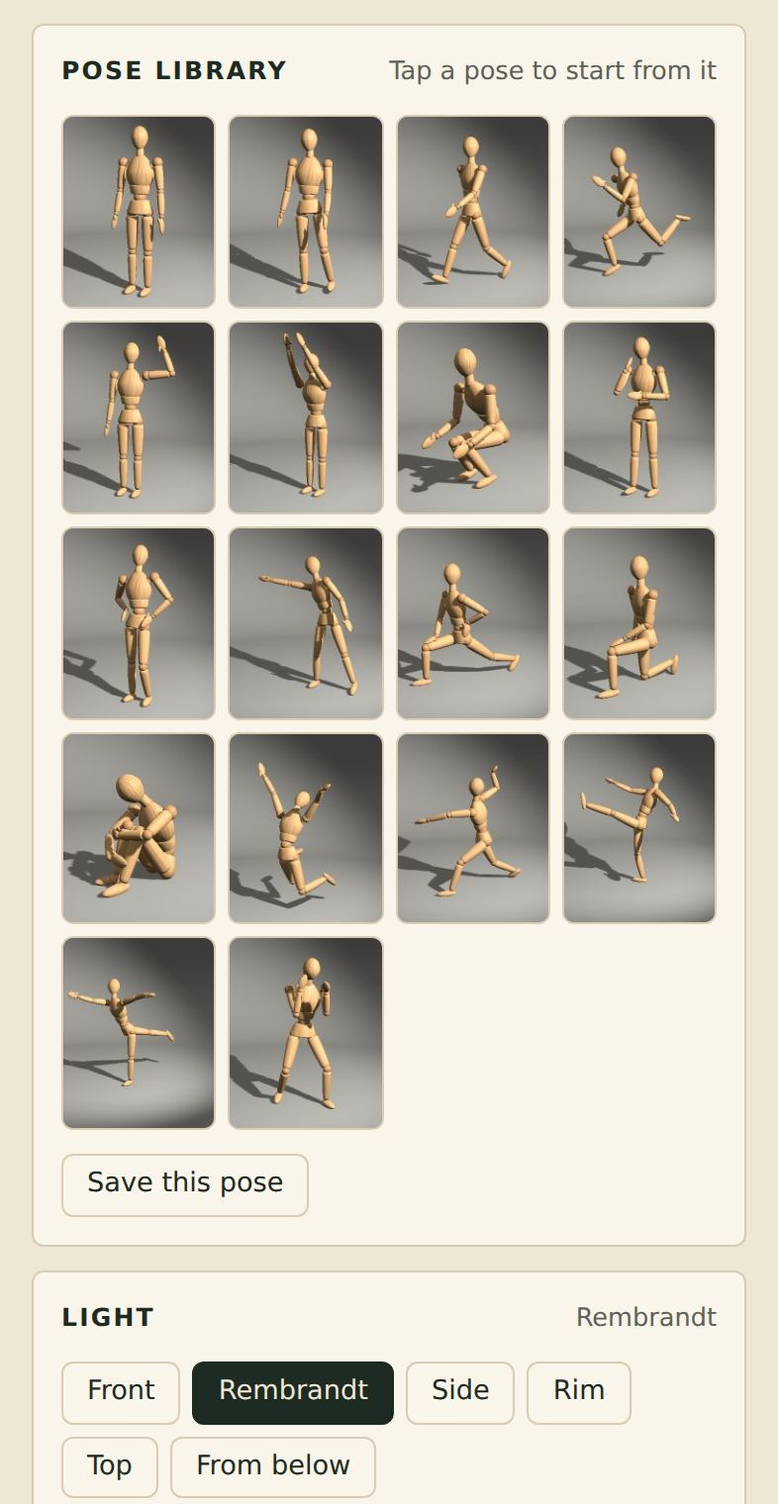
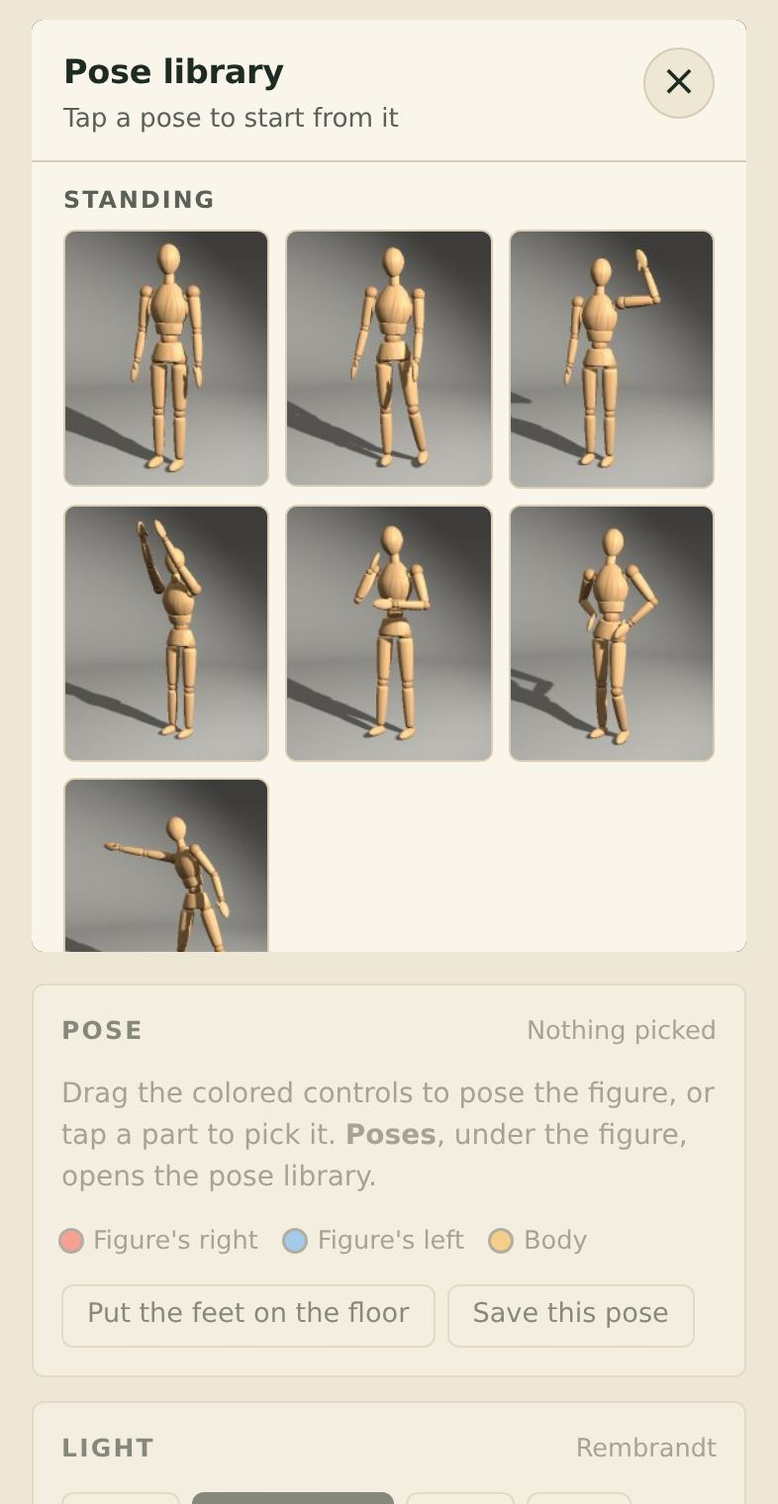
Pose and light: choose a pose to start; the library opens from Poses
The page opens on "Choose a pose to start" (with "Where you left off"
first when there is a pose from last time) and the rest waits until a
pose is picked; Start over goes back to it. The pose library is no longer
always on show: it is a sheet over the stage, opened from a Poses button
under the figure and closed by picking a pose, with the poses in groups
(standing, moving and sport, low to the floor, dance). Save this pose
moves to the Pose panel. The lamp ring keeps clear of the stage buttons.
The guide, its pictures and the README describe it.

Claude-Session: https://claude.ai/code/session_01XVREo3r8Hxw4H8arPAzQN1

diff --git a/pose.html b/pose.html
@@ -128,6 +128,22 @@ input[type="range"] { width: 100%; accent-color: var(--accent); margin: 0; }
 .pose-btn img:not([src]) { display: none; }
 .pose-name { position: absolute; inset: 0; display: grid; place-items: center; padding: 4px; text-align: center; font-size: 0.7rem; line-height: 1.2; color: #f5efe2; }
 .pose-btn.has-img .pose-name { display: none; }
+/* the pose library: a sheet over the stage, opened from the Poses button (and first thing, to choose where to start) */
+.stage .btn-primary { background: var(--accent); border-color: var(--accent); color: var(--accent-ink); font-weight: 600; }
+.stage-bar .btn svg { width: 16px; height: 16px; fill: none; stroke: currentColor; stroke-width: 2; stroke-linecap: round; }
+.sheet { position: absolute; inset: 0; z-index: 6; display: grid; grid-template-rows: auto minmax(0, 1fr); background: var(--surface); color: var(--ink); }
+.sheet-head { display: flex; align-items: flex-start; justify-content: space-between; gap: 12px; padding: 14px 16px 10px; border-bottom: 1px solid var(--line); }
+.sheet-title { display: grid; gap: 2px; min-width: 0; }
+.sheet-title h2 { font-size: 1.05rem; letter-spacing: -0.01em; text-transform: none; }
+.sheet-title .note { color: var(--muted); font-size: 0.82rem; }
+.sheet-x { flex: none; width: 36px; height: 36px; padding: 0; border-radius: 50%; border: 1px solid var(--line); background: var(--ground); color: var(--ink); font: 500 22px/1 var(--body); cursor: pointer; }
+.sheet.is-start .sheet-x { display: none; }
+.sheet-body { overflow: auto; overscroll-behavior: contain; padding: 12px 16px 18px; display: grid; gap: 18px; align-content: start; }
+.lib-groups { display: grid; gap: 18px; }
+.lib-group { display: grid; gap: 8px; }
+.lib-group h3 { margin: 0; display: flex; align-items: center; justify-content: space-between; gap: 8px; font: 700 0.74rem/1.2 var(--display); letter-spacing: 0.09em; text-transform: uppercase; color: var(--muted); }
+.sheet .library { grid-template-columns: repeat(auto-fill, minmax(96px, 1fr)); gap: 8px; }
+.tool.choosing .rail { opacity: 0.5; }
 .pose-x { position: absolute; top: 2px; right: 2px; width: 28px; height: 28px; padding: 0; border: 0; border-radius: 50%; background: rgba(20, 24, 20, 0.72); color: #f5efe2; font: 600 16px/28px var(--body); cursor: pointer; }
 .pose-x:hover { background: rgba(20, 24, 20, 0.9); }
 .lesson b { color: var(--ink); font-weight: 600; }
@@ -178,16 +194,28 @@ dialog p { margin: 8px 0 12px; color: var(--muted); }
       <div class="arrows" id="arrows"></div>
       <button type="button" class="lamp" id="lampHandle" aria-label="The lamp: drag it to move the light, or use the arrow keys"><svg viewBox="0 0 24 24" aria-hidden="true"><circle cx="12" cy="12" r="4.2"/><path d="M12 2.5v3M12 18.5v3M2.5 12h3M18.5 12h3M5.3 5.3l2.1 2.1M16.6 16.6l2.1 2.1M5.3 18.7l2.1-2.1M16.6 7.4l2.1-2.1"/></svg></button>
       <div class="stage-bar">
+        <button type="button" class="btn btn-primary" id="posesBtn" aria-haspopup="dialog" aria-controls="library" aria-expanded="false"><svg viewBox="0 0 24 24" aria-hidden="true"><circle cx="12" cy="4.5" r="2.2"/><path d="M12 7.5v6.5M12 14l-3.5 6M12 14l3.5 6M6 10.5l6-1.5 6 1.5"/></svg>Poses</button>
         <button type="button" class="btn" id="undo" disabled>Undo</button>
         <button type="button" class="btn" id="snap">Snapshot</button>
       </div>
+      <section class="sheet" id="library" role="dialog" aria-modal="true" aria-labelledby="libTitle" aria-describedby="libNote" hidden>
+        <div class="sheet-head">
+          <div class="sheet-title"><h2 id="libTitle">Pose library</h2><span class="note" id="libNote">Tap a pose to start from it</span></div>
+          <button type="button" class="sheet-x" id="libClose" aria-label="Close the pose library" title="Close">×</button>
+        </div>
+        <div class="sheet-body">
+          <div class="lib-group" id="continueWrap" hidden><h3>Where you left off</h3><div class="library" id="continue"></div></div>
+          <div class="lib-group" id="mineWrap" hidden><h3>Your poses <button type="button" class="btn btn-small" id="mineBack" hidden>Put back the pose you removed</button></h3><div class="library" id="mine"></div></div>
+          <div class="lib-groups" id="poses"></div>
+        </div>
+      </section>
       <div class="fail" id="fail" hidden><p><b>The 3D view could not start.</b><br>This browser has WebGL turned off, or the 3D library could not load. Try another browser, or check the connection and reload.</p></div>
     </div>
 
     <div class="rail">
       <section class="card" aria-labelledby="partTitle">
         <div class="card-head"><h2 id="partTitle">Pose</h2><span class="note" id="partName">Nothing picked</span></div>
-        <p class="empty" id="partEmpty">Drag the colored controls to pose the figure, or tap a part to pick it.</p>
+        <p class="empty" id="partEmpty">Drag the colored controls to pose the figure, or tap a part to pick it. <b>Poses</b>, under the figure, opens the pose library.</p>
         <p class="empty" id="partHow" hidden><span class="adv-only">Tap the yellow arrows to move it. Hold an arrow to keep it moving. You can also drag the part itself.</span><span class="simple-only">Drag it to move it. Advanced adds arrows that move it a little at a time.</span> Left and right are the figure's own.</p>
         <p class="empty" id="partDepth" hidden><b>◉</b> brings it toward you and <b>⊗</b> sends it away from you.</p>
         <div class="row" id="partButtons" hidden>
@@ -203,17 +231,10 @@ dialog p { margin: 8px 0 12px; color: var(--muted); }
             <label class="check" for="plantFeet"><input type="checkbox" id="plantFeet" checked> Keep the feet planted when the body moves</label>
           </div>
         </details>
-        <div class="row"><button type="button" class="btn" id="ground">Put the feet on the floor</button></div>
-      </section>
-
-      <section class="card" aria-labelledby="libTitle">
-        <div class="card-head"><h2 id="libTitle">Pose library</h2><span class="note" id="libNote">Tap a pose to start from it</span></div>
-        <div class="library" id="poses"></div>
-        <div class="field" id="mineWrap" hidden>
-          <span class="field-head">Your poses <button type="button" class="btn btn-small" id="mineBack" hidden>Put back the pose you removed</button></span>
-          <div class="library" id="mine"></div>
+        <div class="row">
+          <button type="button" class="btn" id="ground">Put the feet on the floor</button>
+          <button type="button" class="btn" id="savePose">Save this pose</button>
         </div>
-        <div class="row"><button type="button" class="btn" id="savePose">Save this pose</button></div>
       </section>
 
       <section class="card" aria-labelledby="lightTitle">
@@ -321,6 +342,7 @@ dialog p { margin: 8px 0 12px; color: var(--muted); }
   // Simple or Advanced (see "Simple and Advanced" near the end), and in Simple the arm, leg or body
   // last touched, whose elbow or knee diamond or chest ring shows
   let simple = true, active = null;
+  let sheetStart = false;     // the pose library is open as the start screen (see "Pose library")
   const groupOf = (n) => (n === 'root' || n === 'waist' || n === 'neck' ? 'body' : (/^(shoulder|elbow|wrist)/.test(n) ? 'arm' : 'leg') + n.slice(-1));
   const srgb = (hex) => new T.Color(hex).convertSRGBToLinear();
 
@@ -695,22 +717,22 @@ dialog p { margin: 8px 0 12px; color: var(--muted); }
   const POSES = [
     { id: 'stand', name: 'Stand', p: { shoulderR: { z: -7 }, shoulderL: { z: 7 }, elbowR: { x: -10 }, elbowL: { x: -10 } }, thumbView: { az: 25, el: 8 } },
     { id: 'relaxed', name: 'Weight on one leg', p: { root: { z: 5, y: 8 }, waist: { z: -7, y: -4 }, neck: { z: 5, y: -10 }, hipR: { x: -2, z: -2 }, hipL: { x: -10, z: 6 }, kneeL: { x: 22 }, ankleL: { x: -6 }, shoulderR: { z: -9 }, shoulderL: { z: 5, x: -6 }, elbowR: { x: -12 }, elbowL: { x: -25 } }, thumbView: { az: 20, el: 8 } },
-    { id: 'walk', name: 'Walk', p: { waist: { y: 7 }, hipR: { x: -26 }, kneeR: { x: 8 }, ankleR: { x: -8 }, hipL: { x: 20 }, kneeL: { x: 30 }, ankleL: { x: 14 }, shoulderR: { x: 22, z: -6 }, elbowR: { x: -14 }, shoulderL: { x: -28, z: 6 }, elbowL: { x: -32 } }, thumbView: { az: 60, el: 8 } },
-    { id: 'run', name: 'Run', p: { root: { x: 12 }, waist: { x: 10, y: 10 }, neck: { x: -12 }, hipR: { x: -70 }, kneeR: { x: 75 }, ankleR: { x: 10 }, hipL: { x: 30 }, kneeL: { x: 95 }, ankleL: { x: 30 }, shoulderR: { x: 45, z: -10 }, elbowR: { x: -95 }, shoulderL: { x: -55, z: 10 }, elbowL: { x: -95 } }, thumbView: { az: 65, el: 8 } },
+    { id: 'walk', group: 'moving', name: 'Walk', p: { waist: { y: 7 }, hipR: { x: -26 }, kneeR: { x: 8 }, ankleR: { x: -8 }, hipL: { x: 20 }, kneeL: { x: 30 }, ankleL: { x: 14 }, shoulderR: { x: 22, z: -6 }, elbowR: { x: -14 }, shoulderL: { x: -28, z: 6 }, elbowL: { x: -32 } }, thumbView: { az: 60, el: 8 } },
+    { id: 'run', group: 'moving', name: 'Run', p: { root: { x: 12 }, waist: { x: 10, y: 10 }, neck: { x: -12 }, hipR: { x: -70 }, kneeR: { x: 75 }, ankleR: { x: 10 }, hipL: { x: 30 }, kneeL: { x: 95 }, ankleL: { x: 30 }, shoulderR: { x: 45, z: -10 }, elbowR: { x: -95 }, shoulderL: { x: -55, z: 10 }, elbowL: { x: -95 } }, thumbView: { az: 65, el: 8 } },
     { id: 'wave', name: 'Wave', p: { neck: { y: 10, z: -5 }, shoulderL: { z: 95, y: 90 }, elbowL: { x: -105 }, wristL: { z: -10 }, shoulderR: { z: -7 }, elbowR: { x: -10 } }, thumbView: { az: 20, el: 8 } },
     { id: 'reach', name: 'Reach', p: { waist: { x: 12 }, neck: { x: -10 }, shoulderR: { x: -150, z: -10 }, shoulderL: { x: -150, z: 10 }, elbowR: { x: -8 }, elbowL: { x: -8 } }, thumbView: { az: 35, el: 8 } },
-    { id: 'crouch', name: 'Crouch', p: { height: -0.38, root: { x: 18 }, waist: { x: 20 }, neck: { x: -25 }, hipR: { x: -105, z: -8 }, kneeR: { x: 125 }, ankleR: { x: -25 }, hipL: { x: -105, z: 8 }, kneeL: { x: 125 }, ankleL: { x: -25 }, shoulderR: { x: -40, z: -10 }, elbowR: { x: -60 }, shoulderL: { x: -40, z: 10 }, elbowL: { x: -60 } }, thumbView: { az: 50, el: 8 } },
+    { id: 'crouch', group: 'low', name: 'Crouch', p: { height: -0.38, root: { x: 18 }, waist: { x: 20 }, neck: { x: -25 }, hipR: { x: -105, z: -8 }, kneeR: { x: 125 }, ankleR: { x: -25 }, hipL: { x: -105, z: 8 }, kneeL: { x: 125 }, ankleL: { x: -25 }, shoulderR: { x: -40, z: -10 }, elbowR: { x: -60 }, shoulderL: { x: -40, z: 10 }, elbowL: { x: -60 } }, thumbView: { az: 50, el: 8 } },
     { id: 'think', name: 'Think', p: { neck: { x: 12, y: -15 }, shoulderR: { x: -35, z: -14, y: 20 }, elbowR: { x: -145 }, wristR: { x: -20 }, shoulderL: { x: -10, z: 22, y: -40 }, elbowL: { x: -100 }, hipL: { z: 4 }, hipR: { x: -6 } }, thumbView: { az: 30, el: 8 } },
     { id: 'hips', name: 'Hands on hips', p: { root: { y: -8, z: -7 }, waist: { x: -6, y: 5, z: 13 }, neck: { x: -8, y: 14, z: -6 }, shoulderR: { x: 29, y: 66, z: -39 }, elbowR: { x: -105 }, wristR: { x: 23, y: 3, z: -37 }, hipR: { z: 9 }, shoulderL: { x: 14, y: -71, z: 31 }, elbowL: { x: -82 }, wristL: { x: 2, y: 28, z: 23 }, hipL: { x: -15, y: 12, z: 15 }, kneeL: { x: 33 }, ankleL: { x: -10, z: -4 } }, thumbView: { az: 25, el: 10 } },
     { id: 'point', name: 'Point', p: { root: { y: -10, z: 5 }, waist: { x: 4, y: -25, z: 14 }, neck: { x: -6, y: -35 }, shoulderR: { x: -43, y: -90, z: -131 }, hipR: { x: -8, z: -11 }, kneeR: { x: 16 }, ankleR: { x: -4 }, shoulderL: { x: 10, z: 20 }, elbowL: { x: -25 }, hipL: { x: 4, z: 14 }, ankleL: { x: 26, z: 6 } }, thumbView: { az: 25, el: 10 } },
-    { id: 'lunge', name: 'Lunge', p: { root: { x: 14 }, waist: { x: -4, y: -6, z: 2 }, neck: { x: -12, y: 6 }, shoulderR: { x: -26, y: 67, z: -6 }, elbowR: { x: -46 }, wristR: { x: 8, y: 46, z: -43 }, hipR: { x: -95, y: 18, z: 15 }, kneeR: { x: 82 }, ankleR: { x: -1, y: -7, z: 4 }, shoulderL: { x: 37, y: -70, z: 38 }, elbowL: { x: -112 }, wristL: { x: 36, y: 29, z: 33 }, hipL: { x: 40, z: 3 }, kneeL: { x: 22 }, ankleL: { x: -21, y: -3, z: -2 } }, thumbView: { az: 55, el: 12 } },
-    { id: 'kneel', name: 'Kneel', p: { root: { y: -25 }, waist: { x: 10, y: 6, z: -2 }, neck: { x: -8, y: 6, z: 3 }, shoulderR: { x: 10, y: 10, z: -12 }, elbowR: { x: -22 }, hipR: { x: 4, z: -3 }, kneeR: { x: 105 }, ankleR: { x: -28 }, shoulderL: { x: -21, y: -37, z: -2 }, elbowL: { x: -47 }, wristL: { x: -6, y: -72, z: 26 }, hipL: { x: -84, z: 5 }, kneeL: { x: 84 }, ankleL: { y: 6, z: -5 } }, thumbView: { az: 40, el: 12 } },
-    { id: 'sit', name: 'Sit', p: { root: { x: -27 }, waist: { x: 52, y: 5, z: 3 }, neck: { x: 20, y: -10, z: 9 }, shoulderR: { x: -71, y: 55, z: -33 }, elbowR: { x: -56 }, wristR: { x: -40, y: -40, z: 20 }, hipR: { x: -119, y: -3, z: -2 }, kneeR: { x: 130 }, ankleR: { x: 16, y: -8 }, shoulderL: { x: -81, y: 5, z: 94 }, elbowL: { x: -86 }, wristL: { x: -35, y: 60, z: -15 }, hipL: { x: -116, y: -4, z: -1 }, kneeL: { x: 119 }, ankleL: { x: 26, y: 6, z: -1 } }, thumbView: { az: 55, el: 12 } },
-    { id: 'jump', name: 'Jump', p: { root: { x: 8, z: 3 }, waist: { x: -28, y: 5, z: -4 }, neck: { x: -28, y: 10, z: -5 }, shoulderR: { x: -12, y: 30, z: -150 }, elbowR: { x: -12 }, wristR: { z: -20 }, hipR: { x: 22, y: 20, z: -8 }, kneeR: { x: 115 }, ankleR: { x: 38 }, shoulderL: { x: -28, y: -30, z: 136 }, elbowL: { x: -24 }, wristL: { z: -20 }, hipL: { y: -15, z: 7 }, kneeL: { x: 95 }, ankleL: { x: 30 } }, lift: 0.25, thumbView: { az: 40, el: 8 } },
-    { id: 'throw', name: 'Throw', p: { root: { x: 10, y: -31, z: 6 }, waist: { x: 5, y: -40, z: -14 }, neck: { x: -14, y: 40, z: 8 }, shoulderR: { x: 32, y: -90, z: -97 }, elbowR: { x: -95 }, wristR: { z: -45 }, hipR: { x: 19, y: -8, z: -12 }, kneeR: { x: 35 }, ankleR: { x: -13, y: -24, z: 6 }, shoulderL: { x: -52, y: -25, z: 112 }, elbowL: { x: -28 }, hipL: { x: -68, y: 14, z: 11 }, kneeL: { x: 37 }, ankleL: { x: 20, y: -12, z: 2 } }, thumbView: { az: 40, el: 10 } },
-    { id: 'kick', name: 'Kick', p: { root: { x: -15, y: -47, z: -11 }, waist: { x: -8, y: 10, z: 5 }, neck: { x: 18, y: -8 }, shoulderR: { x: -50, z: -65 }, elbowR: { x: -35 }, hipR: { x: 15, y: -1 }, kneeR: { x: 16 }, ankleR: { x: -13, y: -22, z: -3 }, shoulderL: { x: 35, z: 65 }, elbowL: { x: -30 }, hipL: { x: -98, z: 4 }, kneeL: { x: 8 }, ankleL: { x: 25 } }, thumbView: { az: 40, el: 10 } },
-    { id: 'dance', name: 'Dance', p: { root: { x: 37, y: -25, z: 16 }, waist: { x: -18, y: 10 }, neck: { x: -28, y: -10 }, shoulderR: { x: -120, z: -3 }, elbowR: { x: -8 }, wristR: { z: -10 }, hipR: { x: 40, y: 15 }, ankleR: { x: 45 }, shoulderL: { x: 12, z: 100 }, elbowL: { x: -15 }, wristL: { z: -12 }, hipL: { x: -40, y: 20, z: -5 } }, thumbView: { az: 40, el: 10 } },
-    { id: 'box', name: 'Box', p: { root: { x: 2, y: 40, z: -8 }, waist: { x: 8, y: 8 }, neck: { x: 12, y: 22 }, shoulderR: { x: -45, y: 34, z: 14 }, elbowR: { x: -141 }, wristR: { x: 15, y: -75 }, hipR: { x: -24, y: -5, z: -11 }, kneeR: { x: 49 }, ankleR: { x: -13, y: -5 }, shoulderL: { x: -57, y: -23, z: -11 }, elbowL: { x: -105 }, wristL: { x: 20, y: -75 }, hipL: { x: -30, y: 45, z: 31 }, kneeL: { x: 39 }, ankleL: { x: -5, y: -15, z: -4 } }, thumbView: { az: 35, el: 10 } },
+    { id: 'lunge', group: 'moving', name: 'Lunge', p: { root: { x: 14 }, waist: { x: -4, y: -6, z: 2 }, neck: { x: -12, y: 6 }, shoulderR: { x: -26, y: 67, z: -6 }, elbowR: { x: -46 }, wristR: { x: 8, y: 46, z: -43 }, hipR: { x: -95, y: 18, z: 15 }, kneeR: { x: 82 }, ankleR: { x: -1, y: -7, z: 4 }, shoulderL: { x: 37, y: -70, z: 38 }, elbowL: { x: -112 }, wristL: { x: 36, y: 29, z: 33 }, hipL: { x: 40, z: 3 }, kneeL: { x: 22 }, ankleL: { x: -21, y: -3, z: -2 } }, thumbView: { az: 55, el: 12 } },
+    { id: 'kneel', group: 'low', name: 'Kneel', p: { root: { y: -25 }, waist: { x: 10, y: 6, z: -2 }, neck: { x: -8, y: 6, z: 3 }, shoulderR: { x: 10, y: 10, z: -12 }, elbowR: { x: -22 }, hipR: { x: 4, z: -3 }, kneeR: { x: 105 }, ankleR: { x: -28 }, shoulderL: { x: -21, y: -37, z: -2 }, elbowL: { x: -47 }, wristL: { x: -6, y: -72, z: 26 }, hipL: { x: -84, z: 5 }, kneeL: { x: 84 }, ankleL: { y: 6, z: -5 } }, thumbView: { az: 40, el: 12 } },
+    { id: 'sit', group: 'low', name: 'Sit', p: { root: { x: -27 }, waist: { x: 52, y: 5, z: 3 }, neck: { x: 20, y: -10, z: 9 }, shoulderR: { x: -71, y: 55, z: -33 }, elbowR: { x: -56 }, wristR: { x: -40, y: -40, z: 20 }, hipR: { x: -119, y: -3, z: -2 }, kneeR: { x: 130 }, ankleR: { x: 16, y: -8 }, shoulderL: { x: -81, y: 5, z: 94 }, elbowL: { x: -86 }, wristL: { x: -35, y: 60, z: -15 }, hipL: { x: -116, y: -4, z: -1 }, kneeL: { x: 119 }, ankleL: { x: 26, y: 6, z: -1 } }, thumbView: { az: 55, el: 12 } },
+    { id: 'jump', group: 'moving', name: 'Jump', p: { root: { x: 8, z: 3 }, waist: { x: -28, y: 5, z: -4 }, neck: { x: -28, y: 10, z: -5 }, shoulderR: { x: -12, y: 30, z: -150 }, elbowR: { x: -12 }, wristR: { z: -20 }, hipR: { x: 22, y: 20, z: -8 }, kneeR: { x: 115 }, ankleR: { x: 38 }, shoulderL: { x: -28, y: -30, z: 136 }, elbowL: { x: -24 }, wristL: { z: -20 }, hipL: { y: -15, z: 7 }, kneeL: { x: 95 }, ankleL: { x: 30 } }, lift: 0.25, thumbView: { az: 40, el: 8 } },
+    { id: 'throw', group: 'moving', name: 'Throw', p: { root: { x: 10, y: -31, z: 6 }, waist: { x: 5, y: -40, z: -14 }, neck: { x: -14, y: 40, z: 8 }, shoulderR: { x: 32, y: -90, z: -97 }, elbowR: { x: -95 }, wristR: { z: -45 }, hipR: { x: 19, y: -8, z: -12 }, kneeR: { x: 35 }, ankleR: { x: -13, y: -24, z: 6 }, shoulderL: { x: -52, y: -25, z: 112 }, elbowL: { x: -28 }, hipL: { x: -68, y: 14, z: 11 }, kneeL: { x: 37 }, ankleL: { x: 20, y: -12, z: 2 } }, thumbView: { az: 40, el: 10 } },
+    { id: 'kick', group: 'moving', name: 'Kick', p: { root: { x: -15, y: -47, z: -11 }, waist: { x: -8, y: 10, z: 5 }, neck: { x: 18, y: -8 }, shoulderR: { x: -50, z: -65 }, elbowR: { x: -35 }, hipR: { x: 15, y: -1 }, kneeR: { x: 16 }, ankleR: { x: -13, y: -22, z: -3 }, shoulderL: { x: 35, z: 65 }, elbowL: { x: -30 }, hipL: { x: -98, z: 4 }, kneeL: { x: 8 }, ankleL: { x: 25 } }, thumbView: { az: 40, el: 10 } },
+    { id: 'dance', group: 'dance', name: 'Arabesque', p: { root: { x: 37, y: -25, z: 16 }, waist: { x: -18, y: 10 }, neck: { x: -28, y: -10 }, shoulderR: { x: -120, z: -3 }, elbowR: { x: -8 }, wristR: { z: -10 }, hipR: { x: 40, y: 15 }, ankleR: { x: 45 }, shoulderL: { x: 12, z: 100 }, elbowL: { x: -15 }, wristL: { z: -12 }, hipL: { x: -40, y: 20, z: -5 } }, thumbView: { az: 40, el: 10 } },
+    { id: 'box', group: 'moving', name: 'Box', p: { root: { x: 2, y: 40, z: -8 }, waist: { x: 8, y: 8 }, neck: { x: 12, y: 22 }, shoulderR: { x: -45, y: 34, z: 14 }, elbowR: { x: -141 }, wristR: { x: 15, y: -75 }, hipR: { x: -24, y: -5, z: -11 }, kneeR: { x: 49 }, ankleR: { x: -13, y: -5 }, shoulderL: { x: -57, y: -23, z: -11 }, elbowL: { x: -105 }, wristL: { x: 20, y: -75 }, hipL: { x: -30, y: 45, z: 31 }, kneeL: { x: 39 }, ankleL: { x: -5, y: -15, z: -4 } }, thumbView: { az: 35, el: 10 } },
   ];
 
   // ---- The rig: arms and legs that follow their hand or foot (inverse kinematics) -------------------
@@ -1402,8 +1424,8 @@ dialog p { margin: 8px 0 12px; color: var(--muted); }
   // pictures are drawn one at a time after the page is up, so it opens quickly
   const thumbQueue = [];
   let thumbBusy = false;
-  function thumbLater(entry, btn) {
-    thumbQueue.push([entry, btn]);
+  function thumbLater(entry, btn, first) {
+    if (first) thumbQueue.unshift([entry, btn]); else thumbQueue.push([entry, btn]);
     if (thumbBusy) return;
     thumbBusy = true;
     const next = () => {
@@ -1417,7 +1439,7 @@ dialog p { margin: 8px 0 12px; color: var(--muted); }
     };
     setTimeout(next, 60);
   }
-  function poseButton(name, entry, onPick) {
+  function poseButton(name, entry, onPick, first) {
     const item = document.createElement('div');
     item.className = 'pose-item';
     const b = document.createElement('button');
@@ -1433,7 +1455,7 @@ dialog p { margin: 8px 0 12px; color: var(--muted); }
     b.addEventListener('click', onPick);
     item.appendChild(b);
     if (entry.id && thumbs.has(entry.id)) { img.src = thumbs.get(entry.id); b.classList.add('has-img'); }
-    else thumbLater(entry, b);
+    else thumbLater(entry, b, first);
     return item;
   }
   const thumbs = new Map();                  // pictures already drawn, by pose id
@@ -1446,18 +1468,33 @@ dialog p { margin: 8px 0 12px; color: var(--muted); }
   function markLibrary() {
     const on = chosen && chosen.pose === JSON.stringify(pose) ? chosen.id : null;
     document.querySelectorAll('#poses .pose-btn, #mine .pose-btn').forEach((b) => b.setAttribute('aria-pressed', String(b.dataset.id === on)));
-    $('libNote').textContent = on ? chosen.name : 'Tap a pose to start from it';
+    if (!sheetStart) $('libNote').textContent = on ? `On the figure now: ${chosen.name}` : 'Tap a pose to start from it';
   }
-  POSES.forEach((ps) => {
-    const item = poseButton(ps.name, ps, () => {
-      setPose(ps.p);
-      ground();
-      if (ps.lift) { pose.height = clamp(pose.height + ps.lift, LOW, HIGH); applyPose(); }
-      choose(ps.id, ps.name);
-      remember();
+  // the library in groups, so 30 pictures are easy to look through
+  const GROUPS = [['standing', 'Standing'], ['moving', 'Moving and sport'], ['low', 'Low to the floor'], ['dance', 'Dance']];
+  GROUPS.forEach(([g, title]) => {
+    const list = POSES.filter((ps) => (ps.group || 'standing') === g);
+    if (!list.length) return;
+    const sec = document.createElement('div');
+    sec.className = 'lib-group';
+    const h = document.createElement('h3');
+    h.textContent = title;
+    const grid = document.createElement('div');
+    grid.className = 'library';
+    list.forEach((ps) => {
+      const item = poseButton(ps.name, ps, () => {
+        setPose(ps.p);
+        ground();
+        if (ps.lift) { pose.height = clamp(pose.height + ps.lift, LOW, HIGH); applyPose(); }
+        choose(ps.id, ps.name);
+        remember();
+        closeLibrary();
+      });
+      item.firstChild.dataset.id = ps.id;
+      grid.appendChild(item);
     });
-    item.firstChild.dataset.id = ps.id;
-    $('poses').appendChild(item);
+    sec.append(h, grid);
+    $('poses').appendChild(sec);
   });
 
   // your own poses, kept in this browser
@@ -1476,7 +1513,7 @@ dialog p { margin: 8px 0 12px; color: var(--muted); }
     mine.forEach((m, i) => {
       const name = `Your pose ${i + 1}`;
       const view = m.view && typeof m.view === 'object' ? { az: num(m.view.az, 30), el: clamp(num(m.view.el, 8), -8, 80) } : { az: 30, el: 8 };
-      const item = poseButton(name, { id: m.id, p: m.p, ground: false, thumbView: view }, () => { setPose(m.p); choose(m.id, name); remember(); });
+      const item = poseButton(name, { id: m.id, p: m.p, ground: false, thumbView: view }, () => { setPose(m.p); choose(m.id, name); remember(); closeLibrary(); });
       item.firstChild.dataset.id = m.id;
       const x = document.createElement('button');
       x.type = 'button'; x.className = 'pose-x'; x.textContent = '×';
@@ -1507,7 +1544,11 @@ dialog p { margin: 8px 0 12px; color: var(--muted); }
     markLibrary();
     $('savePose').focus();
   });
+  let savedSay = 0;
   $('savePose').addEventListener('click', () => {
+    clearTimeout(savedSay);
+    $('savePose').textContent = 'Saved in the pose library';
+    savedSay = setTimeout(() => { $('savePose').textContent = 'Save this pose'; }, 2200);
     removed = null;
     const id = 'mine-' + Date.now().toString(36);
     mine.push({ id, p: copyPose(pose), view: { az: Math.round(view.az), el: Math.round(view.el) } });
@@ -1517,6 +1558,53 @@ dialog p { margin: 8px 0 12px; color: var(--muted); }
     choose(id, `Your pose ${mine.length}`);
   });
   showMine();
+
+  // The sheet over the stage. It opens from the Poses button, and first thing when the page opens (and
+  // after Start over) to choose a pose to start from: then it has no close button and the rest of the
+  // page waits until a pose is picked. Picking a pose closes it.
+  const sheet = $('library');
+  const behindSheet = () => [canvas, $('hint'), $('picked'), rigSvg, $('arrows'), handle, document.querySelector('.stage-bar'), document.querySelector('.rail')];
+  function openLibrary(start) {
+    sheetStart = !!start;
+    sheet.classList.toggle('is-start', sheetStart);
+    $('libTitle').textContent = sheetStart ? 'Choose a pose to start' : 'Pose library';
+    if (sheetStart) $('libNote').textContent = 'Pick a pose to begin. The Poses button under the figure brings this back any time.';
+    else $('continueWrap').hidden = true;
+    sheet.hidden = false;
+    $('posesBtn').setAttribute('aria-expanded', 'true');
+    document.querySelector('.tool').classList.add('choosing');
+    behindSheet().forEach((el) => el && el.setAttribute('inert', ''));
+    markLibrary();
+    // it opens at the top, or at the group of the pose on the figure now
+    const body = sheet.querySelector('.sheet-body'), now = sheet.querySelector('.pose-btn[aria-pressed="true"]');
+    body.scrollTop = now && !sheetStart ? Math.max(0, now.closest('.lib-group').offsetTop - body.offsetTop - 8) : 0;
+    const on = sheet.querySelector('#continue .pose-btn') || now || sheet.querySelector('#poses .pose-btn');
+    if (on) on.focus({ preventScroll: true });
+  }
+  function closeLibrary() {
+    if (sheet.hidden) return;
+    const wasStart = sheetStart;
+    sheetStart = false;
+    sheet.hidden = true;
+    $('continueWrap').hidden = true;
+    $('posesBtn').setAttribute('aria-expanded', 'false');
+    document.querySelector('.tool').classList.remove('choosing');
+    behindSheet().forEach((el) => el && el.removeAttribute('inert'));
+    $('hint').hidden = !wasStart;              // the tips show once a first pose is chosen
+    markLibrary();
+    $('posesBtn').focus({ preventScroll: true });
+    requestRender();
+  }
+  $('posesBtn').addEventListener('click', () => openLibrary(false));
+  $('libClose').addEventListener('click', closeLibrary);
+  sheet.addEventListener('keydown', (e) => { if (e.key === 'Escape' && !sheetStart) { e.preventDefault(); closeLibrary(); } });
+  // the pose from last time, as the first choice on the start screen
+  function offerContinue() {
+    $('continue').textContent = '';
+    const item = poseButton('Where you left off', { id: 'continue', p: copyPose(pose), ground: false, thumbView: { az: view.az, el: view.el } }, closeLibrary, true);
+    $('continue').appendChild(item);
+    $('continueWrap').hidden = false;
+  }
 
   // ---- How it is shown: color, gray, or the three values ----------------------------------------
 
@@ -1607,7 +1695,12 @@ dialog p { margin: 8px 0 12px; color: var(--muted); }
     if (behind) { x = -x; y = -y; }
     const off = behind || Math.abs(x) > 0.94 || Math.abs(y) > 0.94;
     if (off) { const k = 0.94 / Math.max(Math.abs(x), Math.abs(y), 1e-6); x *= k; y *= k; }
-    handle.style.transform = `translate(${clamp((x + 1) / 2 * w, 26, w - 26)}px, ${clamp((1 - y) / 2 * h, 26, h - 64)}px)`;
+    // the ring stays on the stage, and above the buttons in its bottom corner (Poses, Undo, Snapshot)
+    const bar = document.querySelector('.stage-bar');
+    const hx = clamp((x + 1) / 2 * w, 26, w - 26);
+    let hy = clamp((1 - y) / 2 * h, 26, h - 26);
+    if (bar && hx > bar.offsetLeft - 26 && hy > bar.offsetTop - 27) hy = Math.max(26, bar.offsetTop - 27);
+    handle.style.transform = `translate(${hx}px, ${hy}px)`;
     handle.classList.toggle('is-off', off);
     // hidden behind the figure: the ring dims and lets taps through to the figure
     let behindFigure = false;
@@ -1619,8 +1712,8 @@ dialog p { margin: 8px 0 12px; color: var(--muted); }
       behindFigure = !!h0 && h0.distance < far - 0.05;
     }
     handle.classList.toggle('is-behind', behindFigure);
-    handle.dataset.x = clamp((x + 1) / 2 * w, 26, w - 26);
-    handle.dataset.y = clamp((1 - y) / 2 * h, 26, h - 64);
+    handle.dataset.x = hx;
+    handle.dataset.y = hy;
   }
   function render() {
     queued = false;
@@ -2159,6 +2252,7 @@ dialog p { margin: 8px 0 12px; color: var(--muted); }
     Object.assign(view, { az: 32, el: 8, dist: 5.2 }); placeCamera();
     Object.assign(light, { az: 45, el: 30, dist: 2.6, soft: 3, fill: 40 }); lightChanged(false);
     setPose(POSES[0].p); ground(); pick(null); remember();
+    openLibrary(true);
   });
 
   // ---- Snapshot ------------------------------------------------------------------------------
@@ -2215,6 +2309,8 @@ dialog p { margin: 8px 0 12px; color: var(--muted); }
   showPart();
   last = snapshot();
   resize();
+  if (saved && saved.pose) offerContinue();
+  openLibrary(true);
 
   // for tests and for the app later on
   window.PoseAndLight = { pose, light, view, setPose, pick, POSES, LIGHTS, J, SPEC, render, camera, parts, scene, tipWorld, lamp, stand, applyPose, placeCamera, lightChanged,

diff --git a/index.html b/index.html
@@ -955,7 +955,7 @@
             <h3>Pose and light</h3>
             <p>A wooden drawing figure, the kind artists keep on the desk, and one lamp. Pose the figure, move the light, and watch where the light side, the shadow side and the cast shadow fall. It follows the <strong>Simple / Advanced</strong> switch at the top: Simple shows just the controls you need, Advanced shows them all.</p>
             <ol>
-              <li><strong>Start from a pose.</strong> The <strong>Pose library</strong> shows each pose as a picture: tap one to put the figure in it. <strong>Save this pose</strong> keeps your own poses there too (in this browser), and the × takes one away.</li>
+              <li><strong>Choose a pose to start.</strong> It opens on the pose library: tap a picture to put the figure in that pose (or <strong>Where you left off</strong> to carry on). The poses are grouped: standing, moving and sport, low to the floor, and dance. Later, the <strong>Poses</strong> button under the figure opens the library again. <strong>Save this pose</strong> keeps your own poses in it too (in this browser), and the × takes one away.</li>
               <li><strong>Pose it with the colored controls.</strong> Drag a hand's circle and the whole arm follows; drag a foot and the whole leg follows. The ring around the hips moves the body, and the legs bend so the feet stay on the floor. Red is the figure's right, blue its left. Once you touch an arm, a diamond appears at its elbow: drag it to swing the elbow around while the hand stays put. A leg gets one at the knee, and moving the hips shows a ring around the chest that bends the body, with the arms and head going along. Tap the background and the extra controls go away. In Advanced they all show all the time.</li>
               <li><strong>Pick a part</strong> by tapping it (it gets a yellow outline), then drag it. In Advanced, yellow arrows move it a little at a time; hold an arrow to keep it moving.</li>
               <li><strong>Move the light</strong> by dragging the lamp, or pick Front, Rembrandt, Side, Rim, Top or From below. In Advanced, <strong>Light settings</strong> opens the sliders for its height, distance, shadow edge and room light.</li>
@@ -964,7 +964,7 @@
           </div>
           <div class="help-shots">
             <figure class="phone"><img src="img/help/pose-rig.jpg" alt="The wooden figure in a throwing pose in Simple mode: circles at the hands, ovals under the feet, the ring around the hips, and a diamond at the right elbow after the right hand was moved" loading="lazy"><figcaption>Posing with the rig controls</figcaption></figure>
-            <figure class="phone"><img src="img/help/pose-library.jpg" alt="The pose library: eighteen small pictures of the figure in different poses, with Throw picked" loading="lazy"><figcaption>The pose library</figcaption></figure>
+            <figure class="phone"><img src="img/help/pose-library.jpg" alt="The pose library over the stage: small pictures of the figure in each pose, in groups" loading="lazy"><figcaption>Choosing a pose</figcaption></figure>
             <figure class="phone"><img src="img/help/pose-values.jpg" alt="The same pose seen as dark, middle and light values, with the lamp high to one side" loading="lazy"><figcaption>Dark, middle and light</figcaption></figure>
           </div>
         </section>

diff --git a/README.md b/README.md
@@ -74,7 +74,7 @@ The head is a small 3-D model in units of the ball's radius, after Loomis's *Dra
 Pose and light, under Learning tools, is a wooden drawing figure (the jointed mannequin artists keep on the desk) and one lamp, for studying the figure, light and shadow and values. It is its own page, `pose.html`, shown in a frame that loads the first time the tab opens; inside the app (`pose.html?embed=1`) it drops its own header, sizes its stage from the app's window, follows the app's light or dark theme, and posts its height so the frame grows to fit and the page scrolls as one. `pose.html` also works on its own. It uses three.js r128 from cdnjs.
 
 - **Rig controls**, like an animation rig: a circle at each hand moves the wrist and solves the shoulder and elbow (two-bone inverse kinematics, worked out exactly from the triangle, with damped least-squares steps along the joint limits when a limit stops it); a diamond at each elbow swings the elbow around the shoulder-to-hand line with the hand held still (the pole), and does the same for the knees; an oval under each foot moves the leg with the foot keeping its turn on the floor; a ring around the hips moves the body while both legs bend to keep the feet planted (the hips stop where the legs cannot follow, and a heel lifts onto the toes in a deep crouch when the ankle bends no further); a ring around the chest bends the waist, carrying the arms and head. Right is red, left blue, the body amber. Any part can also be tapped to pick it and moved with arrows, joint by joint.
-- **Pose library**: 18 poses (Stand, Weight on one leg, Walk, Run, Wave, Reach, Crouch, Think, Hands on hips, Point, Lunge, Kneel, Sit, Jump, Throw, Kick, Dance, Box), each a button with a picture of the figure in that pose, drawn off screen from the figure itself when the page opens. **Save this pose** keeps up to 12 of your own, with pictures, in this browser.
+- **Pose library**: 18 poses in groups: Standing (Stand, Weight on one leg, Wave, Reach, Think, Hands on hips, Point), Moving and sport (Walk, Run, Lunge, Jump, Throw, Kick, Box), Low to the floor (Crouch, Kneel, Sit) and Dance (Arabesque), each a button with a picture of the figure in that pose, drawn off screen from the figure itself when the page opens. The library is a sheet over the stage: the page opens on it ("Choose a pose to start", with **Where you left off** first when there is a pose from last time, and the rest of the page waiting until a pose is picked), **Start over** goes back to it, and the **Poses** button under the figure opens it any time; picking a pose closes it. **Save this pose** keeps up to 12 of your own, with pictures, in this browser.
 - **Light**: drag the lamp, or pick Front, Rembrandt, Side, Rim, Top or From below, each with a short lesson; its sliders fold away under **Light settings**.
 - **Simple and Advanced**: inside the app the tool follows the app's switch (the app sends it the mode when the frame loads and whenever it changes); on its own page it has a switch of its own, remembered in that browser. Simple shows only the hand, foot and hip controls; an elbow or knee diamond, or the chest ring, appears once that arm, leg or the body is touched and goes when the background is tapped. A picked part has no arrows (it can still be dragged), and the Rig controls, Light settings, value splits and Show or hide menus are hidden (their options go back to their defaults). Advanced shows every control. **See it as** Color, Gray, or Dark, middle and light with adjustable splits. **Snapshot** saves a picture.
 
